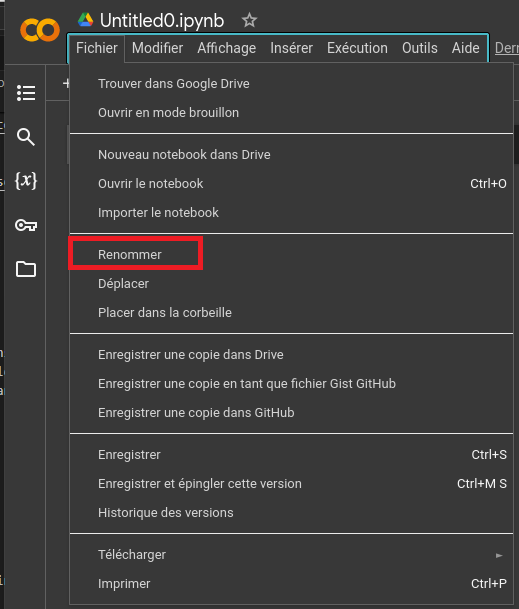
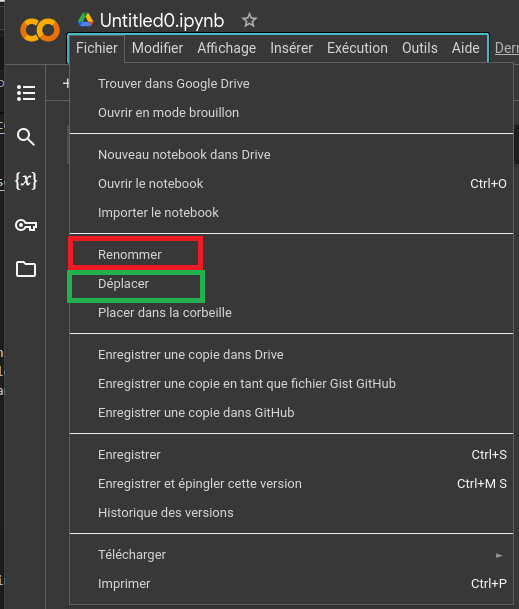
Mise à jour
renommer les notebooks

Changed region(s): [[0.1233, 0.4368, 0.4008, 0.4992]]

diff --git a/GoogleColab/Google_Colab.md b/GoogleColab/Google_Colab.md
@@ -39,20 +39,16 @@ Par défaut, le nom est quelque chose comme Untitled0.ipynb (interactive python 
 
 Vous devez vous assurer de bien organiser vos fichiers. Par défaut, quand on crée un nouveau notebook, il est sauvegardé dans le dossier "Colab Notebooks" dans votre Google Drive.
 
-Vous pouvez le renommner.
+Vous pouvez le renommer et, surtout, le déplacer. Vous devriez vous créer un sous-dossier 420-SN1-RE et garder vos fichiers dans ce dossier.
 
 ![Renommer](./Images_Google_Colab/google_colab_07_renommer.png)
 
-### Suggestions pour le nom des fichiers
-Vous allez créer plusieurs notebooks pendant vos études collégiales et universitaires et vous devez être bien organisé pour retrouver le bon fichier rapidement.
+Des suggestions de noms pour vos fichiers vous seront données en classe.
 
-Pour ce cours-ci, vous pouvez utiliser le préfixe 420_SN1_XX (420 étant le code pour Informatique) ou même Info_SN1_XX et où XX est remplacé pour le numéro de la semaine.
+### Créer un notebook à partir de Google Drive
+Déplacez-vous dans le bon dossier et cliquez avec le bouton de droite de la souris.
+![Bonjour](./Images_Google_Colab/google_colab_08_drive.png). 
 
-Par exemple, pour notre premier notebook pour la semaine 1, on pourrait le nommer Info_SN1_01_premier_notebook.ipynb.
-
-![Premier](./Images_Google_Colab/google_colab_08_premier.png)
-
-Chaque mot est séparé par un '_' ou par un '-'. Il ne semble pas y avoir un standard. Vous pouvez choisir l'un ou l'autre mais il est fortement recommandé de ne pas utiliser un espace comme séparateur.
 
 ### Écrire notre première ligne de code
 
